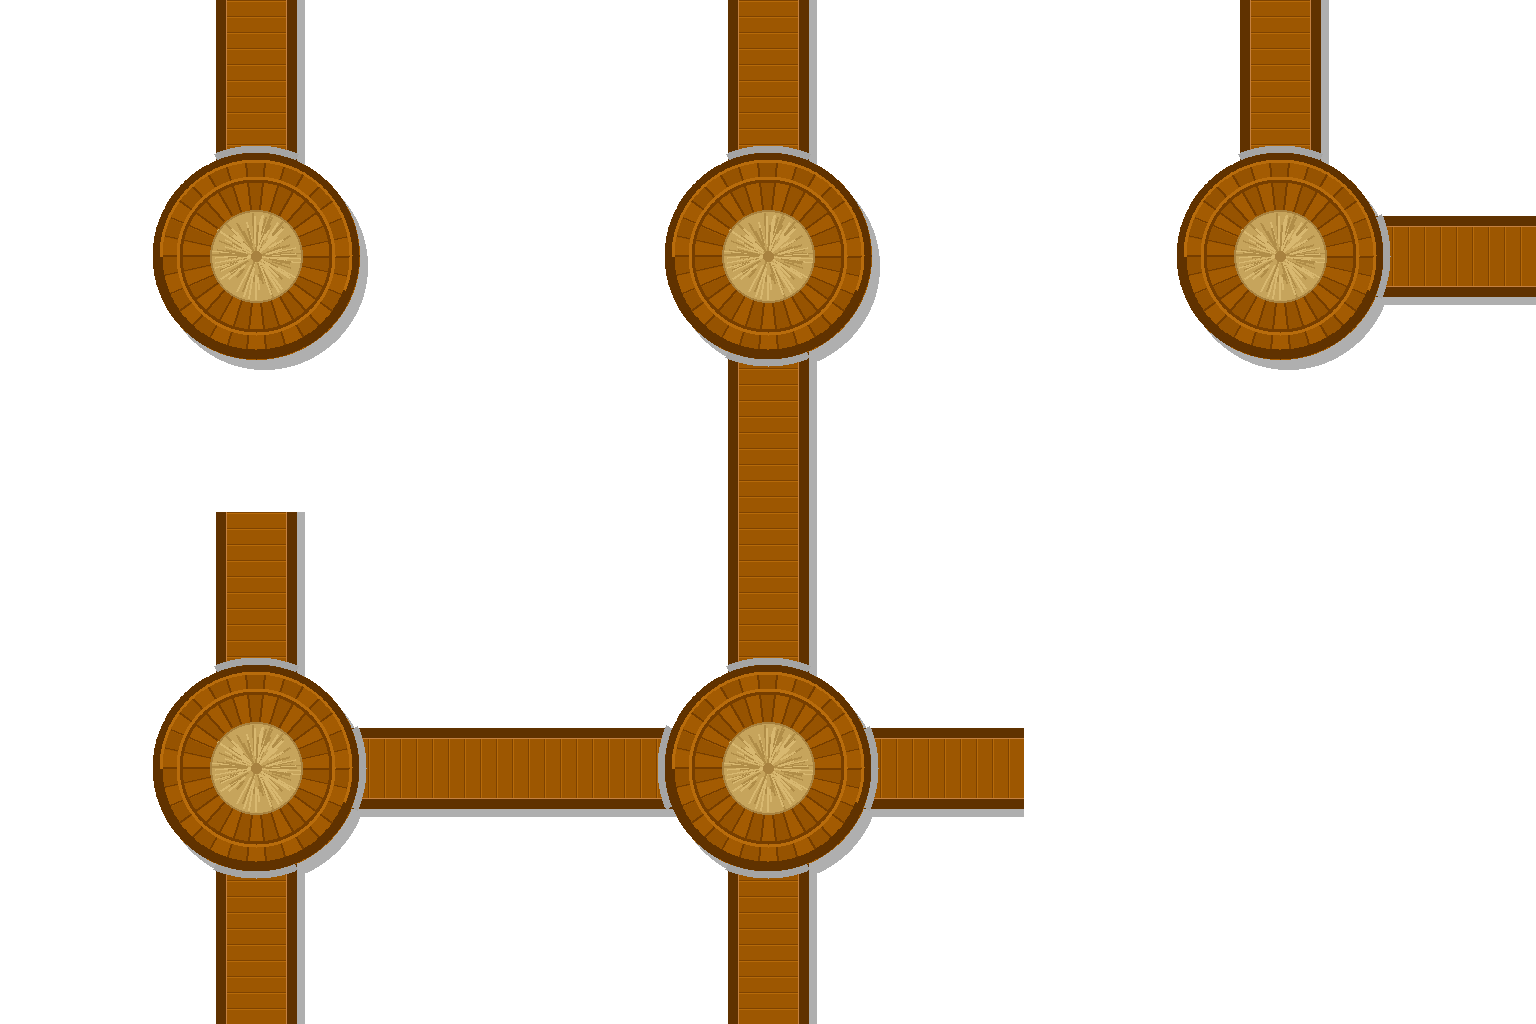
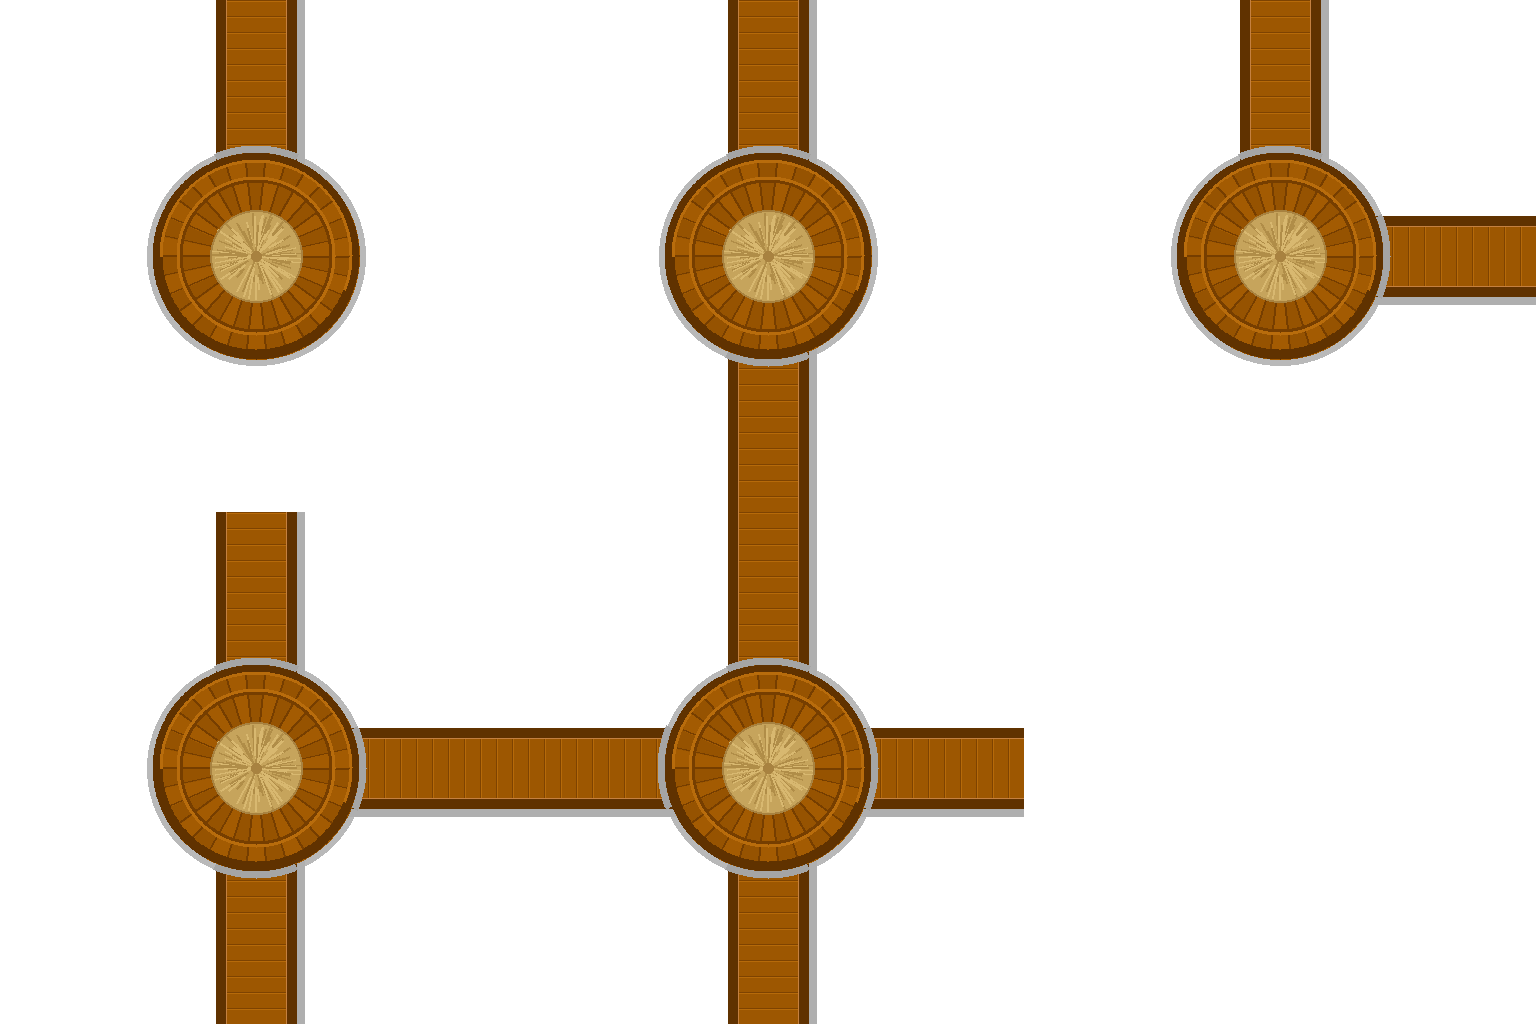
Village: symetrický stín ochozu, odstup těl od kraje, čestný look-probe
Jan: "Podle tvého obrázku jsou teď monstra lehce mimo lávku a kolem ochozu je stále
mezera."

MEZERA KOLEM OCHOZU — byl to SRPEK, ne mezera. Stín paluby byl elipsa posunutá
o (8, 10), takže na jedné straně vznikl tmavý půlměsíc a na protější nic; asymetrie
se čte jako odkrytá spára. Teď je to soustředný kontaktní prstenec 6 px (alfa 70)
kolem celé paluby — paluba leží NA korunách. Ověřeno po stupních: alfa 70 na r=104..109
ve všech směrech, nikde 0.

MONSTRA MIMO LÁVKU — dvě příčiny, jedna byla moje chyba v nástroji:
1. `tools/look_survivor.gd` stavěl figuríny na kružnici 105 px kolem hrdiny BEZ
   kontroly chůze. Na 160px lávce to nutně končí v lese, a snímek pak vypadal jako
   chyba spawnu. Teď každou figurínu protlačí `nearest_floor_point`. Screenshot musí
   fotografovat hru, ne vlastní geometrii.
2. Ve hře tělo stálo legálně na kraji prkna (povolený střed ±49 px od osy lávky při
   poloměru 31), ale KRESLENÝ token je portrét s obrysem a výběrovým kruhem, takže
   visel přes okraj. `VILLAGE_KEEP_OFF = 8 px` navíc v `walkable()` pro vesnici.

Probe 0 FAIL (24 paků, 41 těl, 0 mimo lávku), testy 44 PASS.

diff --git a/tools/art/village_tiles.py b/tools/art/village_tiles.py
@@ -171,7 +171,11 @@ def hut(d):
 def tile(mask):
     im = Image.new("RGBA", (T, T), (0, 0, 0, 0))
     d = ImageDraw.Draw(im)
-    d.ellipse((CX - EDGE + 8, CY - EDGE + 10, CX + EDGE + 8, CY + EDGE + 10), fill=(0, 0, 0, 80))
+    # ⚠  SYMMETRIC contact shadow. An ellipse offset by (8, 10) left a dark CRESCENT on the
+    # bottom-right of every deck and nothing on the top-left — Jan read that asymmetrical crescent
+    # as "kolem ochozu je mezera". A ring of the same width all the way round reads as "the deck
+    # lies ON the canopy", which is what it is.
+    d.ellipse((CX - EDGE - 6, CY - EDGE - 6, CX + EDGE + 6, CY + EDGE + 6), fill=(0, 0, 0, 70))
     for bit, name in ((1, "N"), (2, "S"), (4, "E"), (8, "W")):
         if mask & bit:
             band(d, name)
